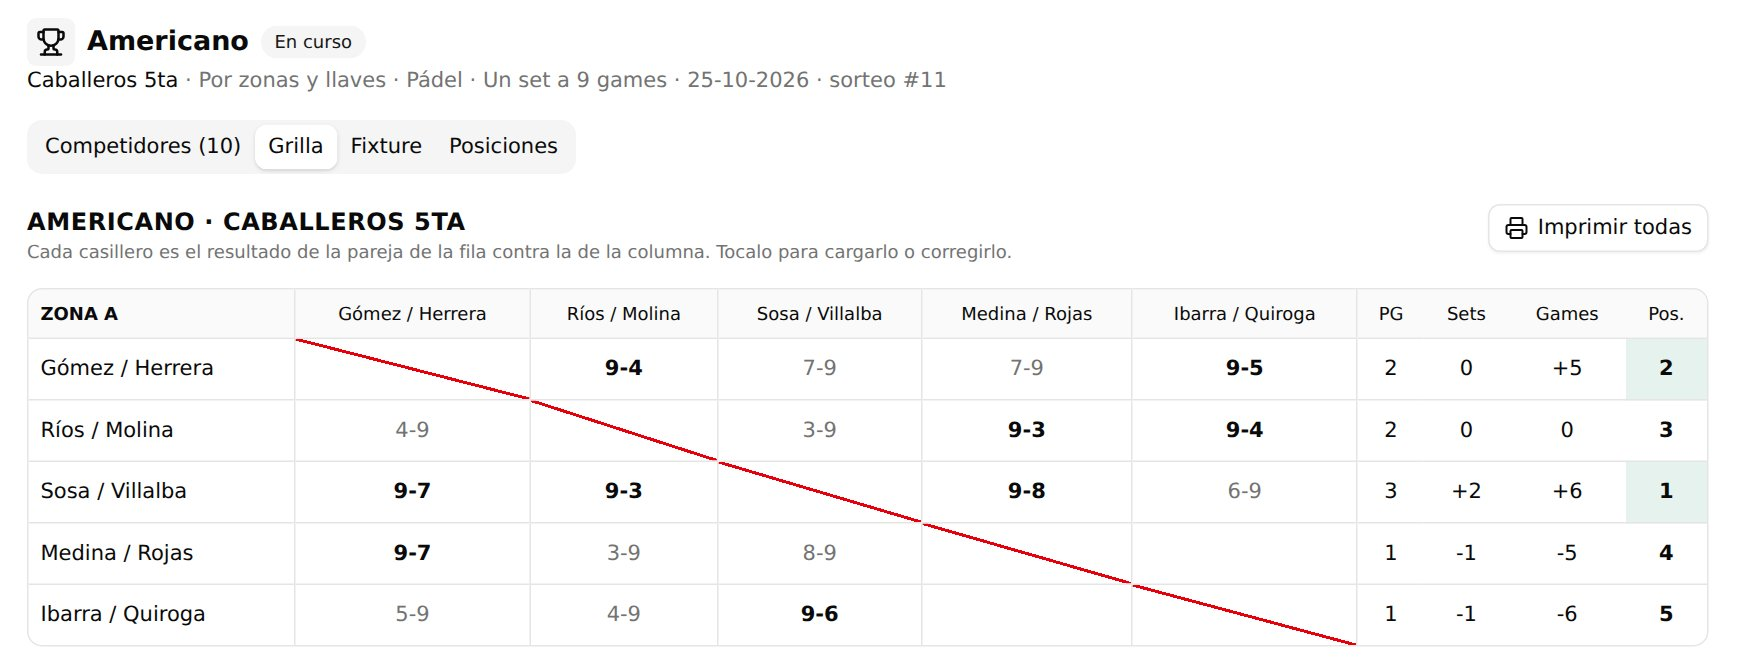
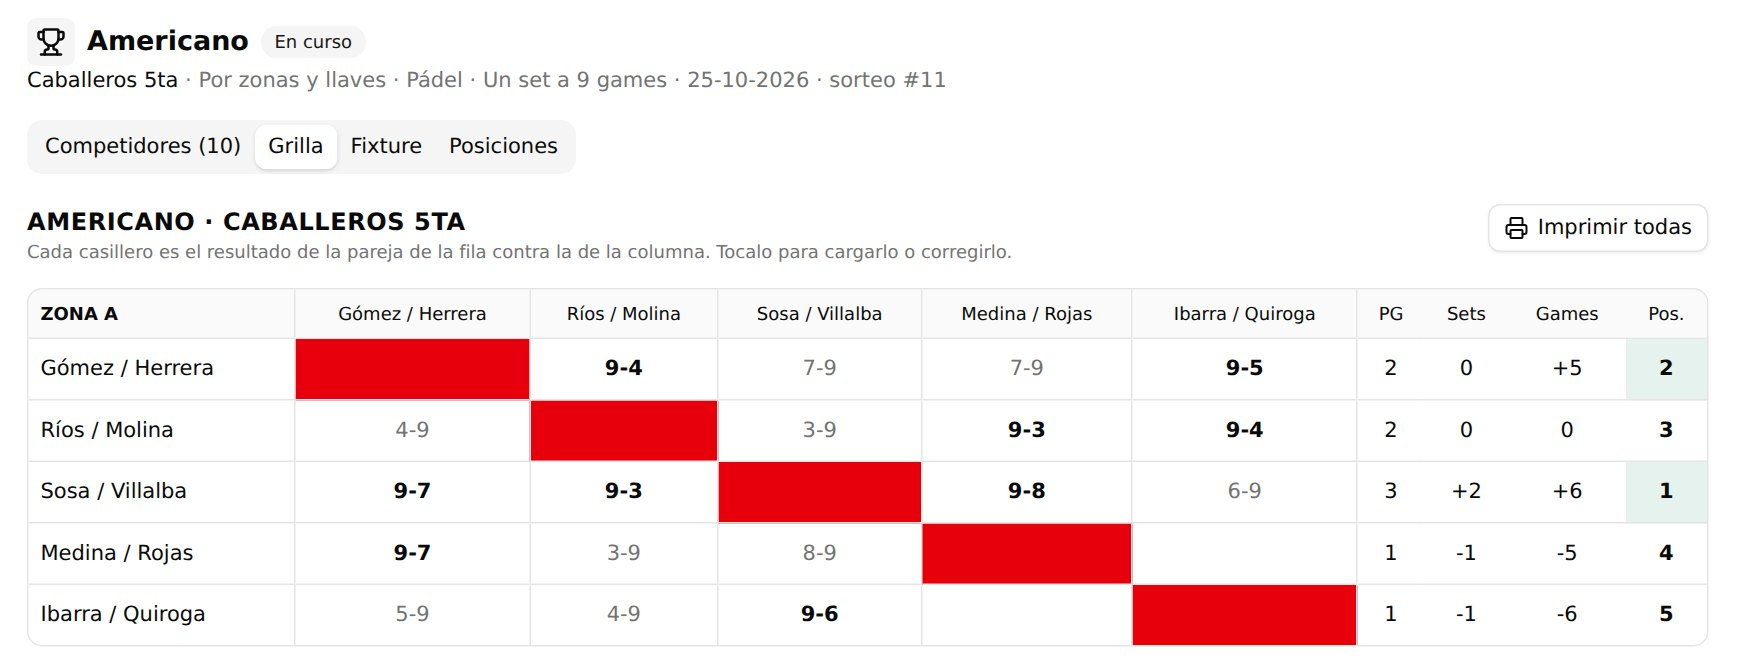
Landing: llaves con líneas, grilla con la diagonal roja, liga de fútbol y celular con proporción real
Capturas nuevas de la demo (libraclub#483) y una tercera de una liga de fútbol
para que se vea la diferencia con el pádel. El marco del portal toma la
proporción de un teléfono (390×844).

Changed region(s): [[0.1554, 0.509, 0.8083, 0.988]]

diff --git a/public/index.html b/public/index.html
@@ -17,7 +17,7 @@
     .portal .section-sub { max-width: none; }
     .portal .step-list { margin: 1.5rem 0 0; }
     .celular { margin: 0; }
-    .celular-marco { width: 100%; max-width: 300px; margin: 0 auto; aspect-ratio: 780 / 1060; overflow: hidden;
+    .celular-marco { width: 100%; max-width: 230px; margin: 0 auto; aspect-ratio: 390 / 844; overflow: hidden;
                      border: 8px solid var(--dark); border-radius: 32px; background: #fff; box-shadow: var(--shadow); }
     .celular-marco img { display: block; width: 100%; height: 100%; object-fit: cover; object-position: top; }
     .celular figcaption { margin-top: 1.1rem; text-align: center; font-size: .92rem; color: var(--muted); }
@@ -335,11 +335,11 @@
             <div class="browser-url">demo.libraclub.com.ar/torneos</div>
           </div>
           <div class="browser-body">
-            <a href="/img/demo-torneo-llaves.jpg" target="_blank" rel="noopener"><img src="/img/demo-torneo-llaves.jpg" width="1737" height="840" loading="lazy"
+            <a href="/img/demo-torneo-llaves.jpg" target="_blank" rel="noopener"><img src="/img/demo-torneo-llaves.jpg" width="1737" height="870" loading="lazy"
                  alt="Cuadro de eliminación directa de un torneo de pádel en LibraClub: cuartos de final, semifinal y final, con el resultado de cada partido"></a>
           </div>
         </div>
-        <figcaption>Eliminación directa: cuartos, semifinal y final, con los resultados de cada partido.</figcaption>
+        <figcaption>Eliminación directa: el cuadro con sus líneas, de cuartos a la final, con los resultados de cada partido.</figcaption>
       </figure>
       <figure class="showcase-fig">
         <div class="browser">
@@ -353,6 +353,19 @@
           </div>
         </div>
         <figcaption>Americano de pádel: la grilla de una zona, como la de papel, lista para imprimir una hoja por zona.</figcaption>
+      </figure>
+      <figure class="showcase-fig">
+        <div class="browser">
+          <div class="browser-bar">
+            <span></span><span></span><span></span>
+            <div class="browser-url">demo.libraclub.com.ar/torneos</div>
+          </div>
+          <div class="browser-body">
+            <a href="/img/demo-torneo-futbol-grilla.jpg" target="_blank" rel="noopener"><img src="/img/demo-torneo-futbol-grilla.jpg" width="1737" height="728" loading="lazy"
+                 alt="Grilla de una liga de fútbol 5 de seis equipos: el resultado de cada partido, con empates, y las columnas de puntos, diferencia de gol y posición"></a>
+          </div>
+        </div>
+        <figcaption>Liga de fútbol: un solo resultado por partido, con empates, y la tabla por puntos.</figcaption>
       </figure>
     </div>
     <div class="features-grid" style="margin-top:3rem">
